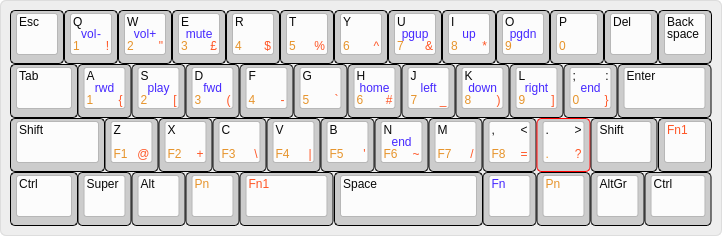
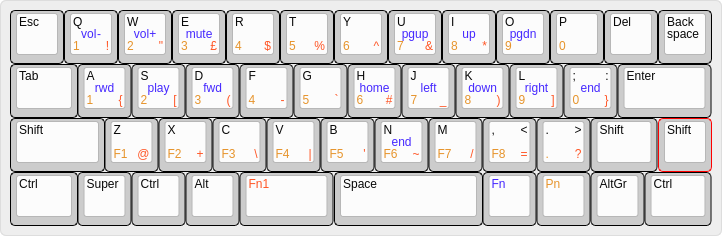
Tweaked layout to match my crkbd/corne.
* Move Alt and Ctrl over to be next to my Symbols layer modifier.
* Replaced right Fn1 for RShift since Corne is forcing me wide.
* Updated images to match.

diff --git a/README.md b/README.md
@@ -64,7 +64,7 @@ Reference:
 
 * Keyboard-layout-editor.com: Vortex Core L3 (permalink) (NOTE: Ugly link since
   it breaks markdown when attempting to do a reference link):
-  http://www.keyboard-layout-editor.com/##@@=Esc&_t=%23000000%0A%23c27600%0A%0A%23ff2e00%0A%0A%0A%0A%0A%0A%23110fff%3B&=Q%0A1%0A%0A!%0A%0A%0A%0A%0A%0Avol-&=W%0A2%0A%0A"%0A%0A%0A%0A%0A%0Avol+&=E%0A3%0A%0A£%0A%0A%0A%0A%0A%0Amute&_t=%23000000%0A%23c27600%0A%0A%23ff2e00%3B&=R%0A4%0A%0A$&=T%0A5%0A%0A%25&=Y%0A6%0A%0A%5E&_t=%23000000%0A%23c27600%0A%0A%23ff2e00%0A%0A%0A%0A%0A%0A%23110fff%3B&=U%0A7%0A%0A%2F&%0A%0A%0A%0A%0A%0Apgup&=I%0A8%0A%0A*%0A%0A%0A%0A%0A%0Aup&_t=%23000000%0A%23c27600%0A%0A%0A%0A%0A%0A%0A%0A%23110fff%3B&=O%0A9%0A%0A%0A%0A%0A%0A%0A%0Apgdn&_t=%23000000%0A%23c27600%3B&=P%0A0&_t=%23000000%3B&=Del&=Back%0A%0A%0A%0A%0A%0Aspace%3B&@_w:1.25%3B&=Tab&_t=%23000000%0A%23c27600%0A%0A%23ff2e00%0A%0A%0A%0A%0A%0A%23110fff%3B&=A%0A1%0A%0A%7B%0A%0A%0A%0A%0A%0Arwd&=S%0A2%0A%0A%5B%0A%0A%0A%0A%0A%0Aplay&=D%0A3%0A%0A(%0A%0A%0A%0A%0A%0Afwd&_t=%23000000%0A%23c27600%0A%0A%23ff2e00%3B&=F%0A4%0A%0A-&=G%0A5%0A%0A%60&_t=%23000000%0A%23c27600%0A%0A%23ff2e00%0A%0A%0A%0A%0A%0A%23110fff%3B&=H%0A6%0A%0A%23%0A%0A%0A%0A%0A%0Ahome&=J%0A7%0A%0A%2F_%0A%0A%0A%0A%0A%0Aleft&=K%0A8%0A%0A)%0A%0A%0A%0A%0A%0Adown&=L%0A9%0A%0A%5D%0A%0A%0A%0A%0A%0Aright&=%2F%3B%0A0%0A%2F:%0A%7D%0A%0A%0A%0A%0A%0Aend&_t=%23000000&w:1.75%3B&=Enter%3B&@_w:1.75%3B&=Shift&_t=%23000000%0A%23c27600%0A%0A%23ff2e00%3B&=Z%0AF1%0A%0A%2F@&=X%0AF2%0A%0A+&=C%0AF3%0A%0A%5C&=V%0AF4%0A%0A%7C&=B%0AF5%0A%0A'&_t=%23000000%0A%23c27600%0A%0A%23ff2e00%0A%0A%0A%0A%0A%0A%23110fff%3B&=N%0AF6%0A%0A~%0A%0A%0A%0A%0A%0Aend&_t=%23000000%0A%23c27600%0A%0A%23ff2e00%3B&=M%0AF7%0A%0A%2F%2F&=,%0AF8%0A<%0A%2F=&=.%0A.%0A>%0A%3F&_t=%23000000&w:1.25%3B&=Shift&_t=%23ff2e00%3B&=Fn1%3B&@_t=%23000000&w:1.25%3B&=Ctrl&=Super&=Alt&_t=%23c27600%3B&=Pn&_t=%23ff2e00&w:1.75%3B&=Fn1&_t=%23000000&w:2.75%3B&=Space&_t=%23110fff%3B&=Fn&_t=%23c27600%3B&=Pn&_t=%23000000%3B&=AltGr&_w:1.25%3B&=Ctrl
+  http://www.keyboard-layout-editor.com/##@@=Esc&_t=%23000000%0A%23c27600%0A%0A%23ff2e00%0A%0A%0A%0A%0A%0A%23110fff%3B&=Q%0A1%0A%0A!%0A%0A%0A%0A%0A%0Avol-&=W%0A2%0A%0A"%0A%0A%0A%0A%0A%0Avol+&=E%0A3%0A%0A£%0A%0A%0A%0A%0A%0Amute&_t=%23000000%0A%23c27600%0A%0A%23ff2e00%3B&=R%0A4%0A%0A$&=T%0A5%0A%0A%25&=Y%0A6%0A%0A%5E&_t=%23000000%0A%23c27600%0A%0A%23ff2e00%0A%0A%0A%0A%0A%0A%23110fff%3B&=U%0A7%0A%0A%2F&%0A%0A%0A%0A%0A%0Apgup&=I%0A8%0A%0A*%0A%0A%0A%0A%0A%0Aup&_t=%23000000%0A%23c27600%0A%0A%0A%0A%0A%0A%0A%0A%23110fff%3B&=O%0A9%0A%0A%0A%0A%0A%0A%0A%0Apgdn&_t=%23000000%0A%23c27600%3B&=P%0A0&_t=%23000000%3B&=Del&=Back%0A%0A%0A%0A%0A%0Aspace%3B&@_w:1.25%3B&=Tab&_t=%23000000%0A%23c27600%0A%0A%23ff2e00%0A%0A%0A%0A%0A%0A%23110fff%3B&=A%0A1%0A%0A%7B%0A%0A%0A%0A%0A%0Arwd&=S%0A2%0A%0A%5B%0A%0A%0A%0A%0A%0Aplay&=D%0A3%0A%0A(%0A%0A%0A%0A%0A%0Afwd&_t=%23000000%0A%23c27600%0A%0A%23ff2e00%3B&=F%0A4%0A%0A-&=G%0A5%0A%0A%60&_t=%23000000%0A%23c27600%0A%0A%23ff2e00%0A%0A%0A%0A%0A%0A%23110fff%3B&=H%0A6%0A%0A%23%0A%0A%0A%0A%0A%0Ahome&=J%0A7%0A%0A%2F_%0A%0A%0A%0A%0A%0Aleft&=K%0A8%0A%0A)%0A%0A%0A%0A%0A%0Adown&=L%0A9%0A%0A%5D%0A%0A%0A%0A%0A%0Aright&=%2F%3B%0A0%0A%2F:%0A%7D%0A%0A%0A%0A%0A%0Aend&_t=%23000000&w:1.75%3B&=Enter%3B&@_w:1.75%3B&=Shift&_t=%23000000%0A%23c27600%0A%0A%23ff2e00%3B&=Z%0AF1%0A%0A%2F@&=X%0AF2%0A%0A+&=C%0AF3%0A%0A%5C&=V%0AF4%0A%0A%7C&=B%0AF5%0A%0A'&_t=%23000000%0A%23c27600%0A%0A%23ff2e00%0A%0A%0A%0A%0A%0A%23110fff%3B&=N%0AF6%0A%0A~%0A%0A%0A%0A%0A%0Aend&_t=%23000000%0A%23c27600%0A%0A%23ff2e00%3B&=M%0AF7%0A%0A%2F%2F&=,%0AF8%0A<%0A%2F=&=.%0A.%0A>%0A%3F&_t=%23000000&w:1.25%3B&=Shift&=Shift%3B&@_w:1.25%3B&=Ctrl&=Super&=Ctrl&=Alt&_t=%23ff2e00&w:1.75%3B&=Fn1&_t=%23000000&w:2.75%3B&=Space&_t=%23110fff%3B&=Fn&_t=%23c27600%3B&=Pn&_t=%23000000%3B&=AltGr&_w:1.25%3B&=Ctrl
 * [Keyboard-layout-editor.com: Vortex Core L3 (json)].
 
 
